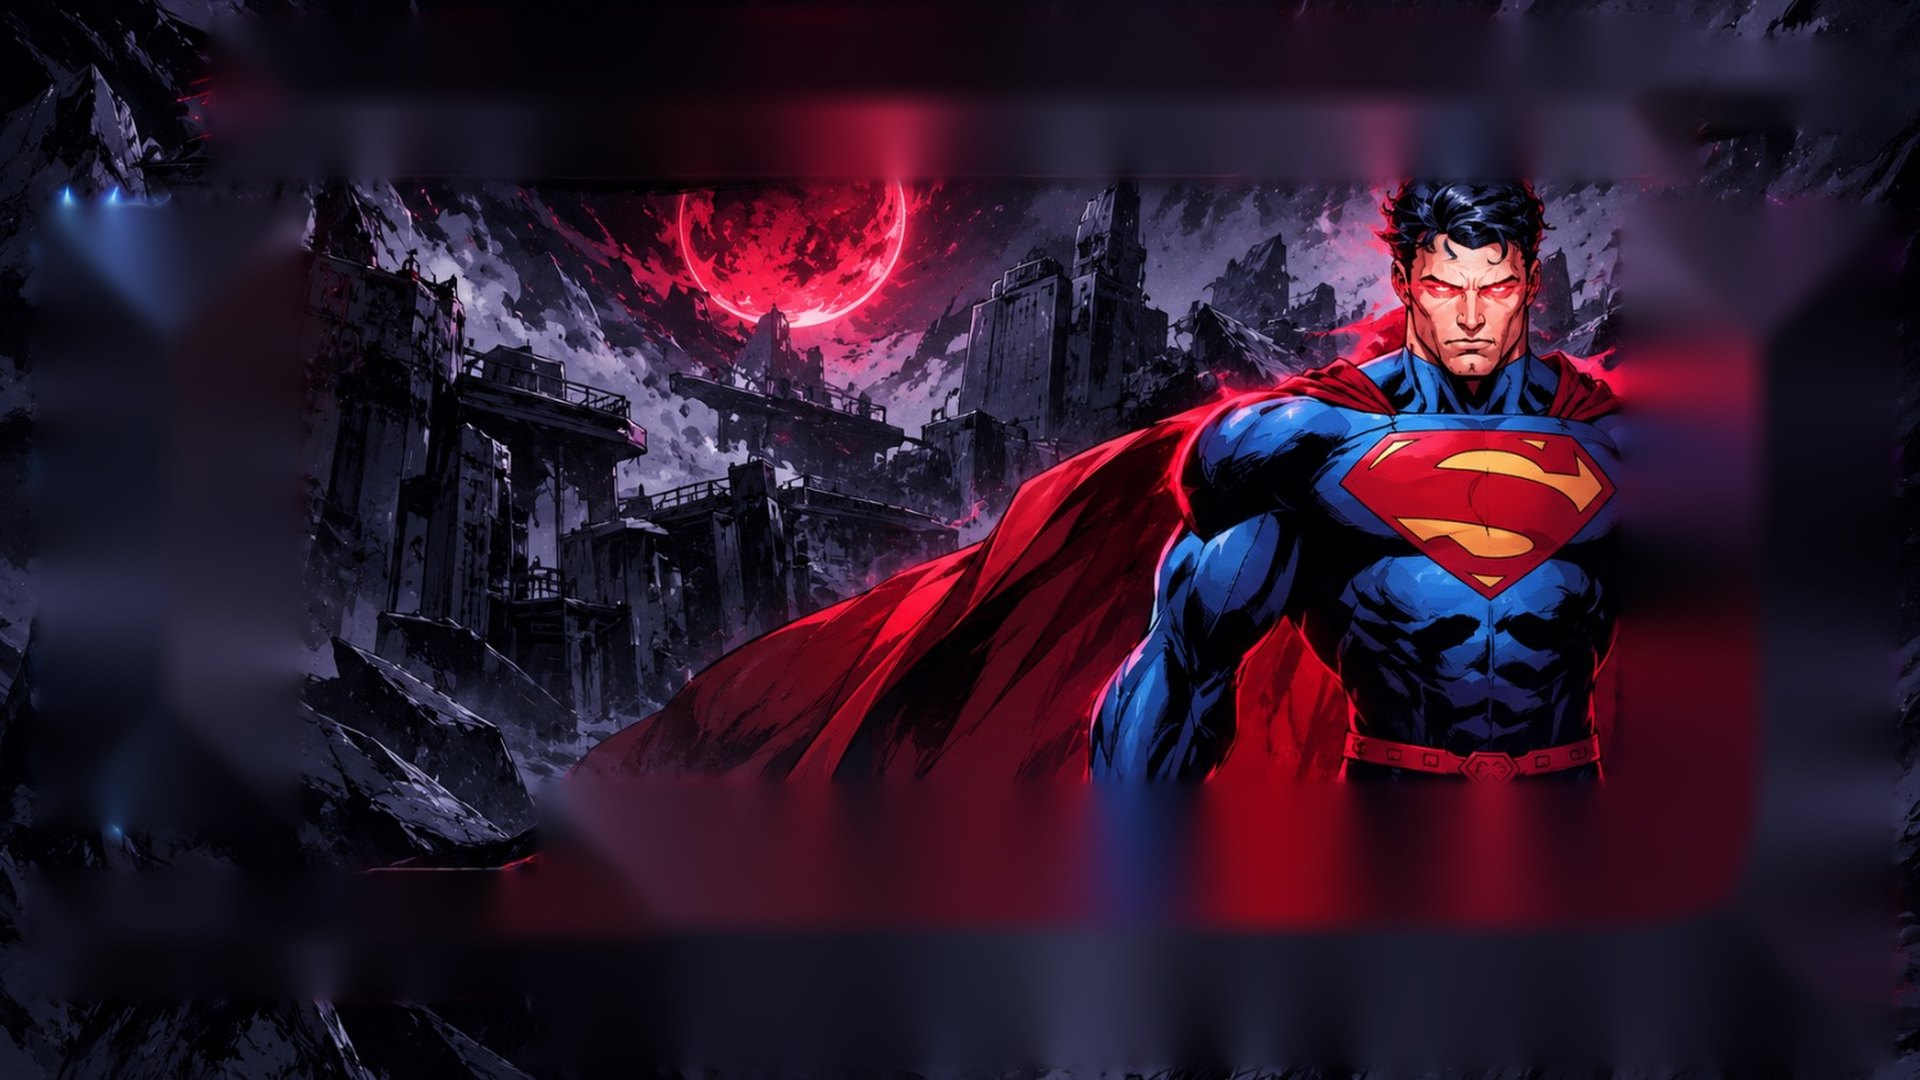
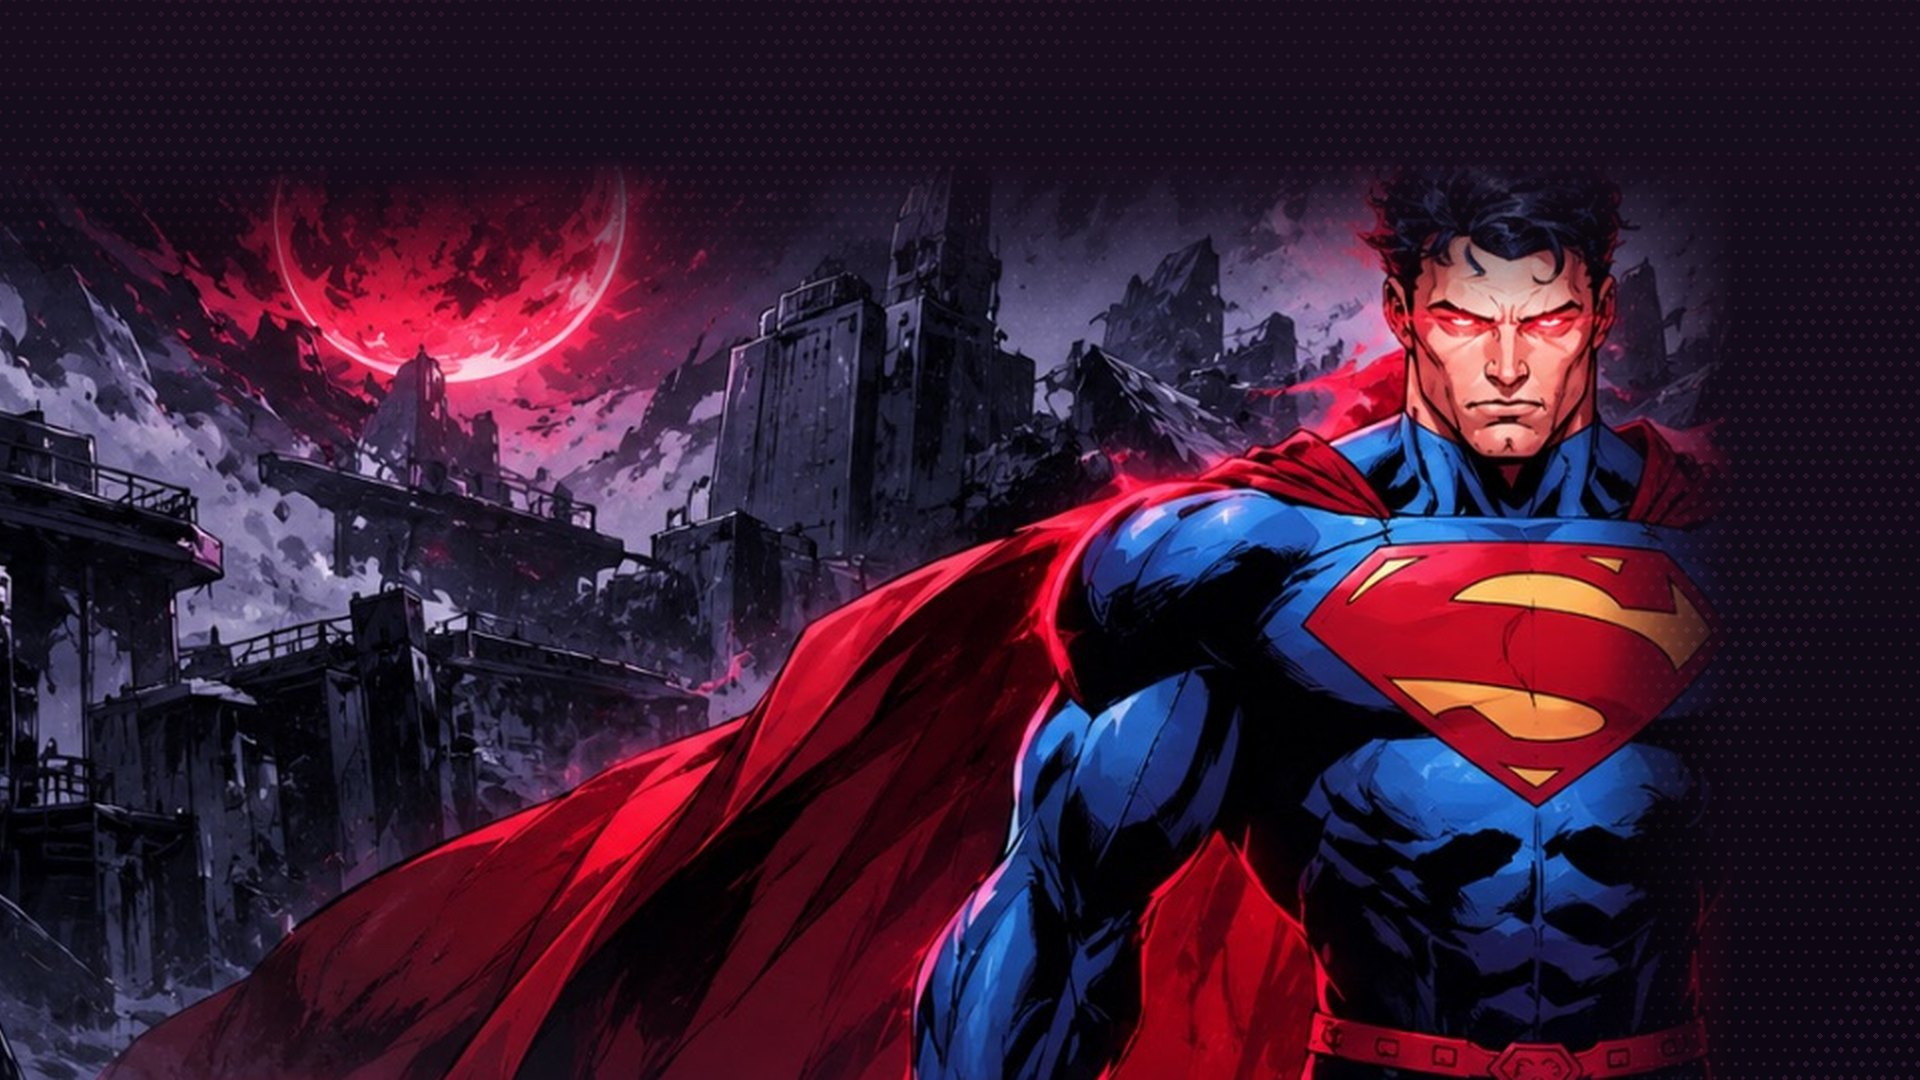
Sharper Superman battle backgrounds (no filled-in blur)
Both Comic Arena backgrounds are rebuilt from only the untouched part of the
mockup art, framed so Superman sits in the open space, over a dark halftone
night backdrop.

Claude-Session: https://claude.ai/code/session_01K62jKbwR1q4er12esREiiv

diff --git a/ingame.html b/ingame.html
@@ -28,7 +28,7 @@ j=d.createElement(s),dl=l!='dataLayer'?'&l='+l:'';j.async=true;j.src=
     <link rel="stylesheet" href="styles/style.css?v=pokemon-battle-polish-v1&pokemon-type-classes-v1&scraggy-miss-v1&pokemon-logo-v1&battle-death-toggle-v1&community-animation-pass-v1&pokemon-trainer-capture-audio-v1&pokemon-evolution-cinematic-v2&sound-state-visibility-v1&classic-chat-clear-v1&target-damage-preview-v1&weather-vfx-sheet-v1&polluted-air-v2&skill-panel-zindex-fix-v1&sound-controller-layout-v1&polluted-air-fog-vfx-v1&confirmed-combat-fx-scale-down-v1&pinsir-guillotine-cinematic-v1&lance-team-preset-v1&revert-cache-bust-force-v1&genjutsu-yellow-v1">
     <link rel="stylesheet" href="styles/ingame-experimental.css?v=pokemon-gameplay-fixes-v4&pokemon-ui-polish-v1&pokemon-ui-polish-v2&battle-options-death-toggle-v1&mobile-battle-options-v2&cooldown-alignment-v1&sound-state-visibility-v1&sound-controller-layout-v3&roster-zindex-fix-v1&lance-side-render-v1">
     <link rel="stylesheet" href="styles/pokemon-types.css?v=pokemon-type-badges-v1">
-    <link rel="stylesheet" href="styles/ingame-arena-skin.css?v=battle-widescreen-v1">
+    <link rel="stylesheet" href="styles/ingame-arena-skin.css?v=battle-widescreen-v2">
 </head>
 <body class="app-loading app-loading-ingame ui-stable-ingame">
 <!-- Google Tag Manager (noscript) -->

diff --git a/styles/ingame-arena-skin.css b/styles/ingame-arena-skin.css
@@ -751,9 +751,8 @@ html.battle-experimental.battle-portrait body .ingame-stage { width: 480px; heig
 html.battle-experimental.battle-portrait body .backgroundingame { box-shadow: none; }
 html.battle-experimental.battle-portrait body.battle-default-bg .backgroundingame::before {
     background:
-        linear-gradient(180deg, rgba(0,0,0,0.25), transparent 20%, transparent 38%, rgba(6,8,22,0.55) 58%, rgba(6,8,22,0.8) 78%, rgba(0,0,0,0.85)),
-        linear-gradient(90deg, rgba(6,8,22,0.7), rgba(6,8,22,0.2) 45%, transparent 60%),
-        url('../assets/images/battle-bg-comic-portrait.jpg') center top / cover no-repeat;
+        url('../assets/images/battle-bg-comic-portrait.jpg') center / cover no-repeat,
+        #140c1a;
 }
 html.battle-experimental.battle-portrait body.arena-mode-pokemon.battle-default-bg .backgroundingame::before {
     background:
